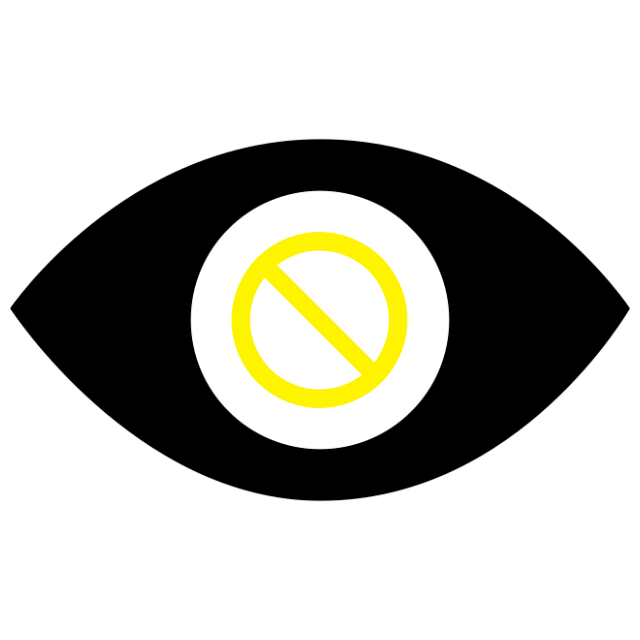
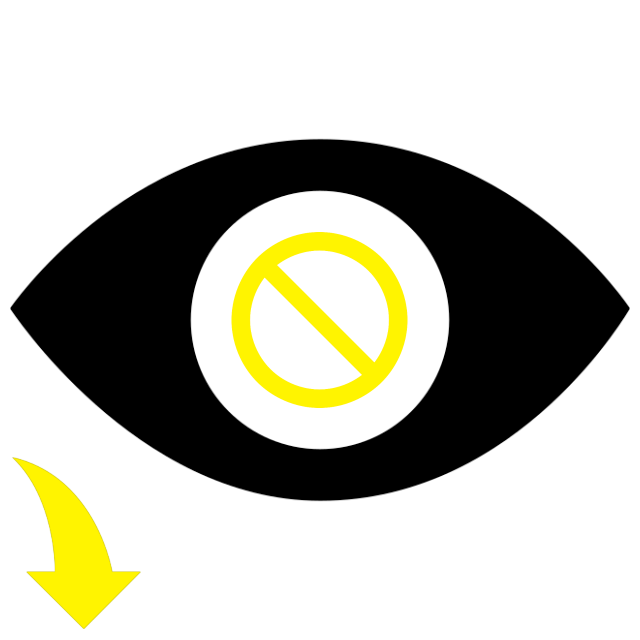
add text and arrow to close #124

Changed region(s): [[0.0312, 0.7188, 0.2188, 1.0]]

diff --git a/SEYRproject/SEYR/ImageProcessing/Viewer.cs b/SEYRproject/SEYR/ImageProcessing/Viewer.cs
@@ -82,7 +82,7 @@ namespace SEYR.ImageProcessing
             if (!Session.Channel.Project.HasImageFeature())
             {
                 PBX.BackgroundImage = Properties.Resources.NoImage;
-                InfoLabel.Text = "No features are saving images.";
+                InfoLabel.Text = "No features are saving images. Continue if desired.";
             }
         }
 
